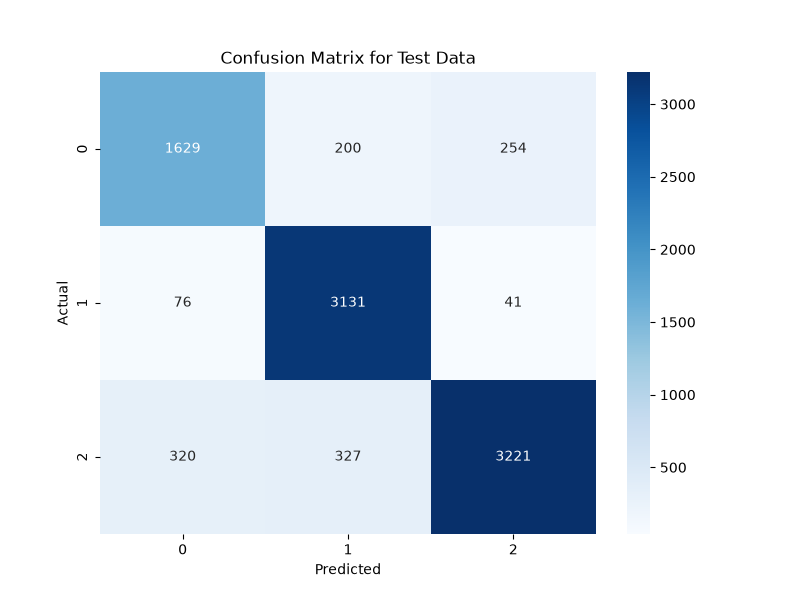
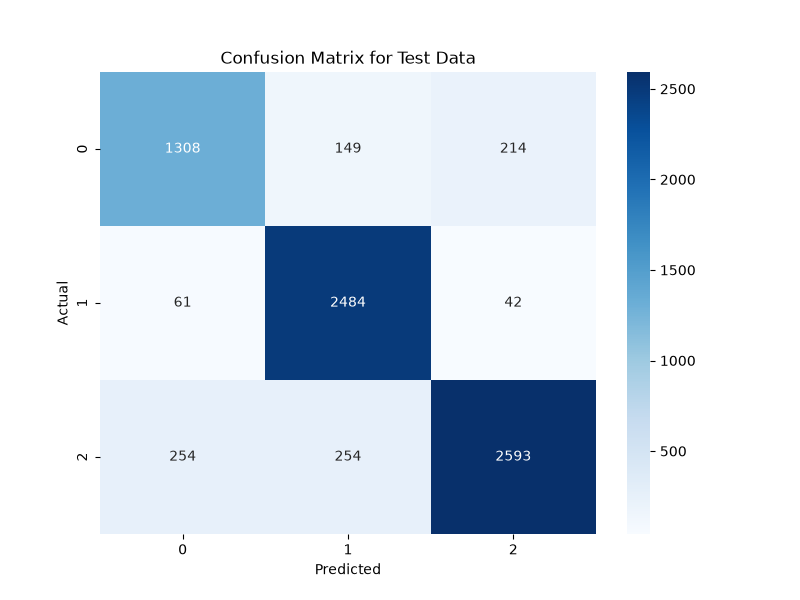
ciworkflow added with dagshub key 3

diff --git a/src/model/model_evaluation.py b/src/model/model_evaluation.py
@@ -32,7 +32,10 @@ dagshub_url = "https://dagshub.com"
 repo_owner = "balaram.sahu8"
 repo_name = "YT-Sentiment-analysis"
 
-# Set up MLflow tracking URI
+# # Set up MLflow tracking URI
+# import dagshub
+# dagshub.init(repo_owner='balaram.sahu8', repo_name='YT-Sentiment-analysis', mlflow=True)
+# mlflow.set_tracking_uri("https://dagshub.com/balaram.sahu8/YT-Sentiment-analysis.mlflow")
 
 
 
@@ -144,6 +147,7 @@ def save_model_info(run_id: str, model_uri: str, file_path: str) -> None:
         raise
 
 def main():
+    # mlflow.set_tracking_uri("https://dagshub.com/balaram.sahu8/YT-Sentiment-analysis.mlflow")
     mlflow.set_tracking_uri(f'{dagshub_url}/{repo_owner}/{repo_name}.mlflow')
 
     mlflow.set_experiment('dvc-pipeline-runs')
@@ -178,7 +182,7 @@ def main():
             # Use the supported LightGBM MLflow API and keep the exact model URI returned by MLflow.
             model_info = mlflow.lightgbm.log_model(
                 model,
-                name="lgbm_model",
+                artifact_path="lgbm_model",
                 signature=signature,
                 input_example=input_example,
                 extra_pip_requirements=['lightgbm']
